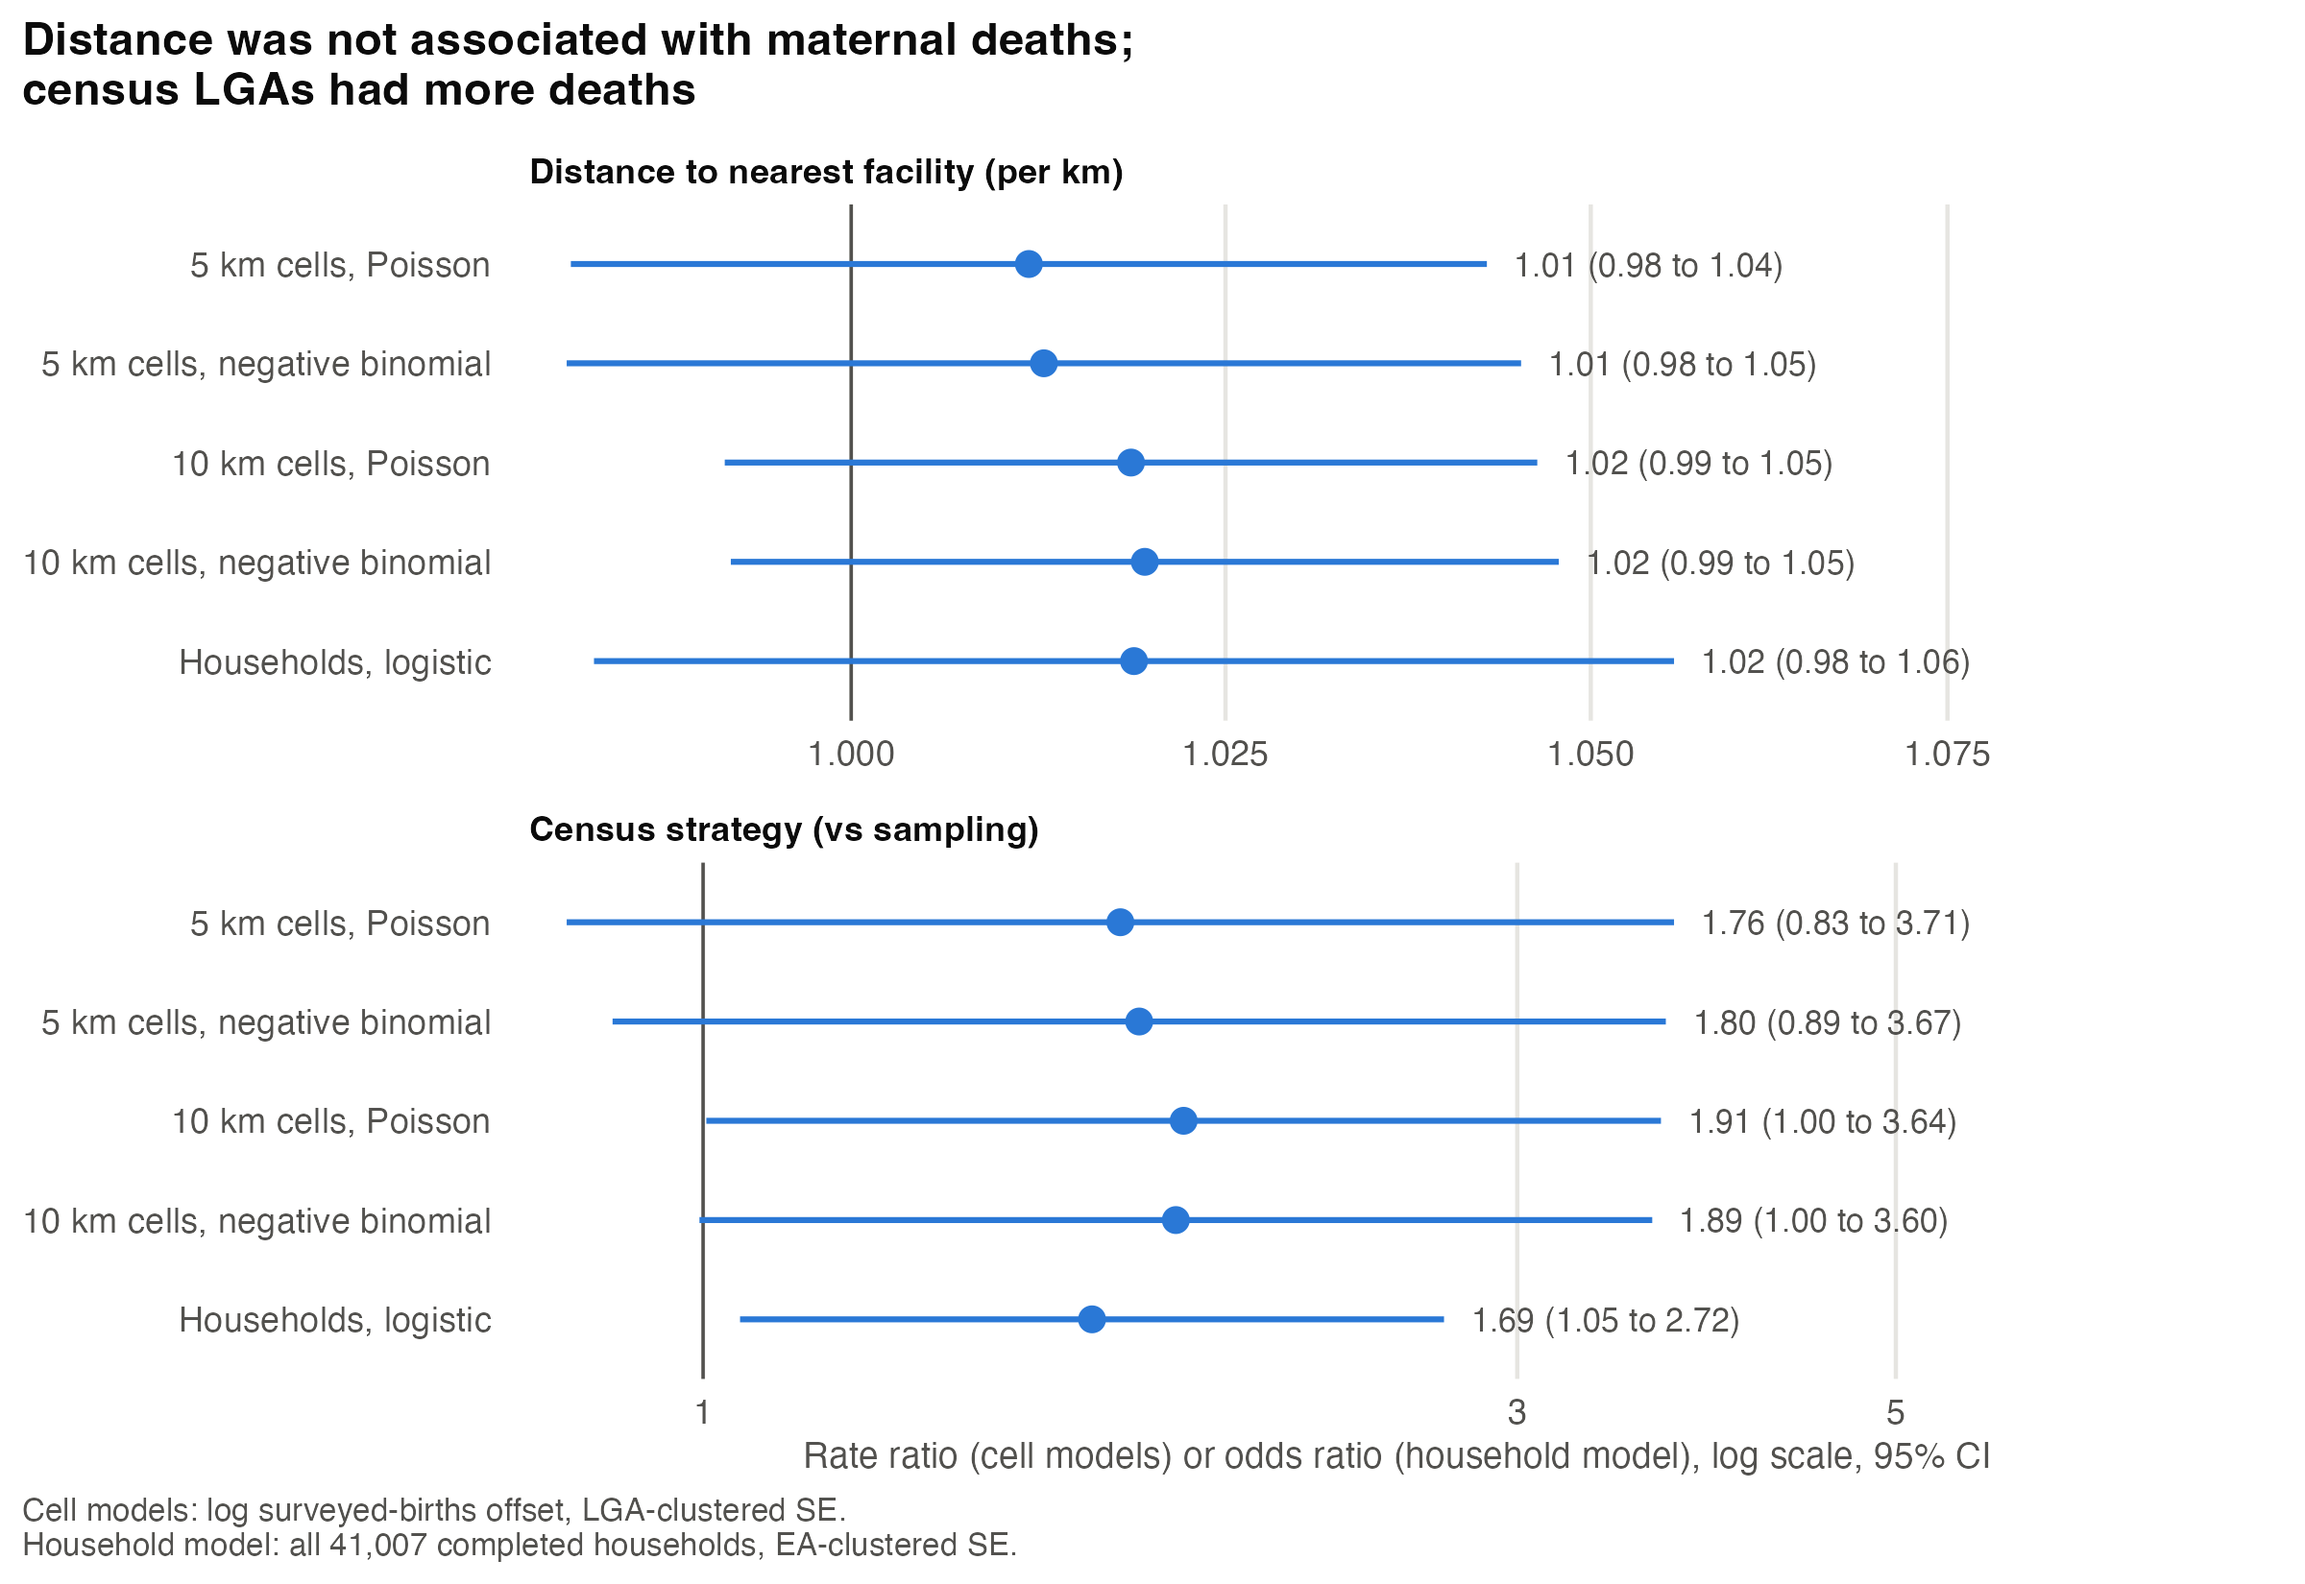
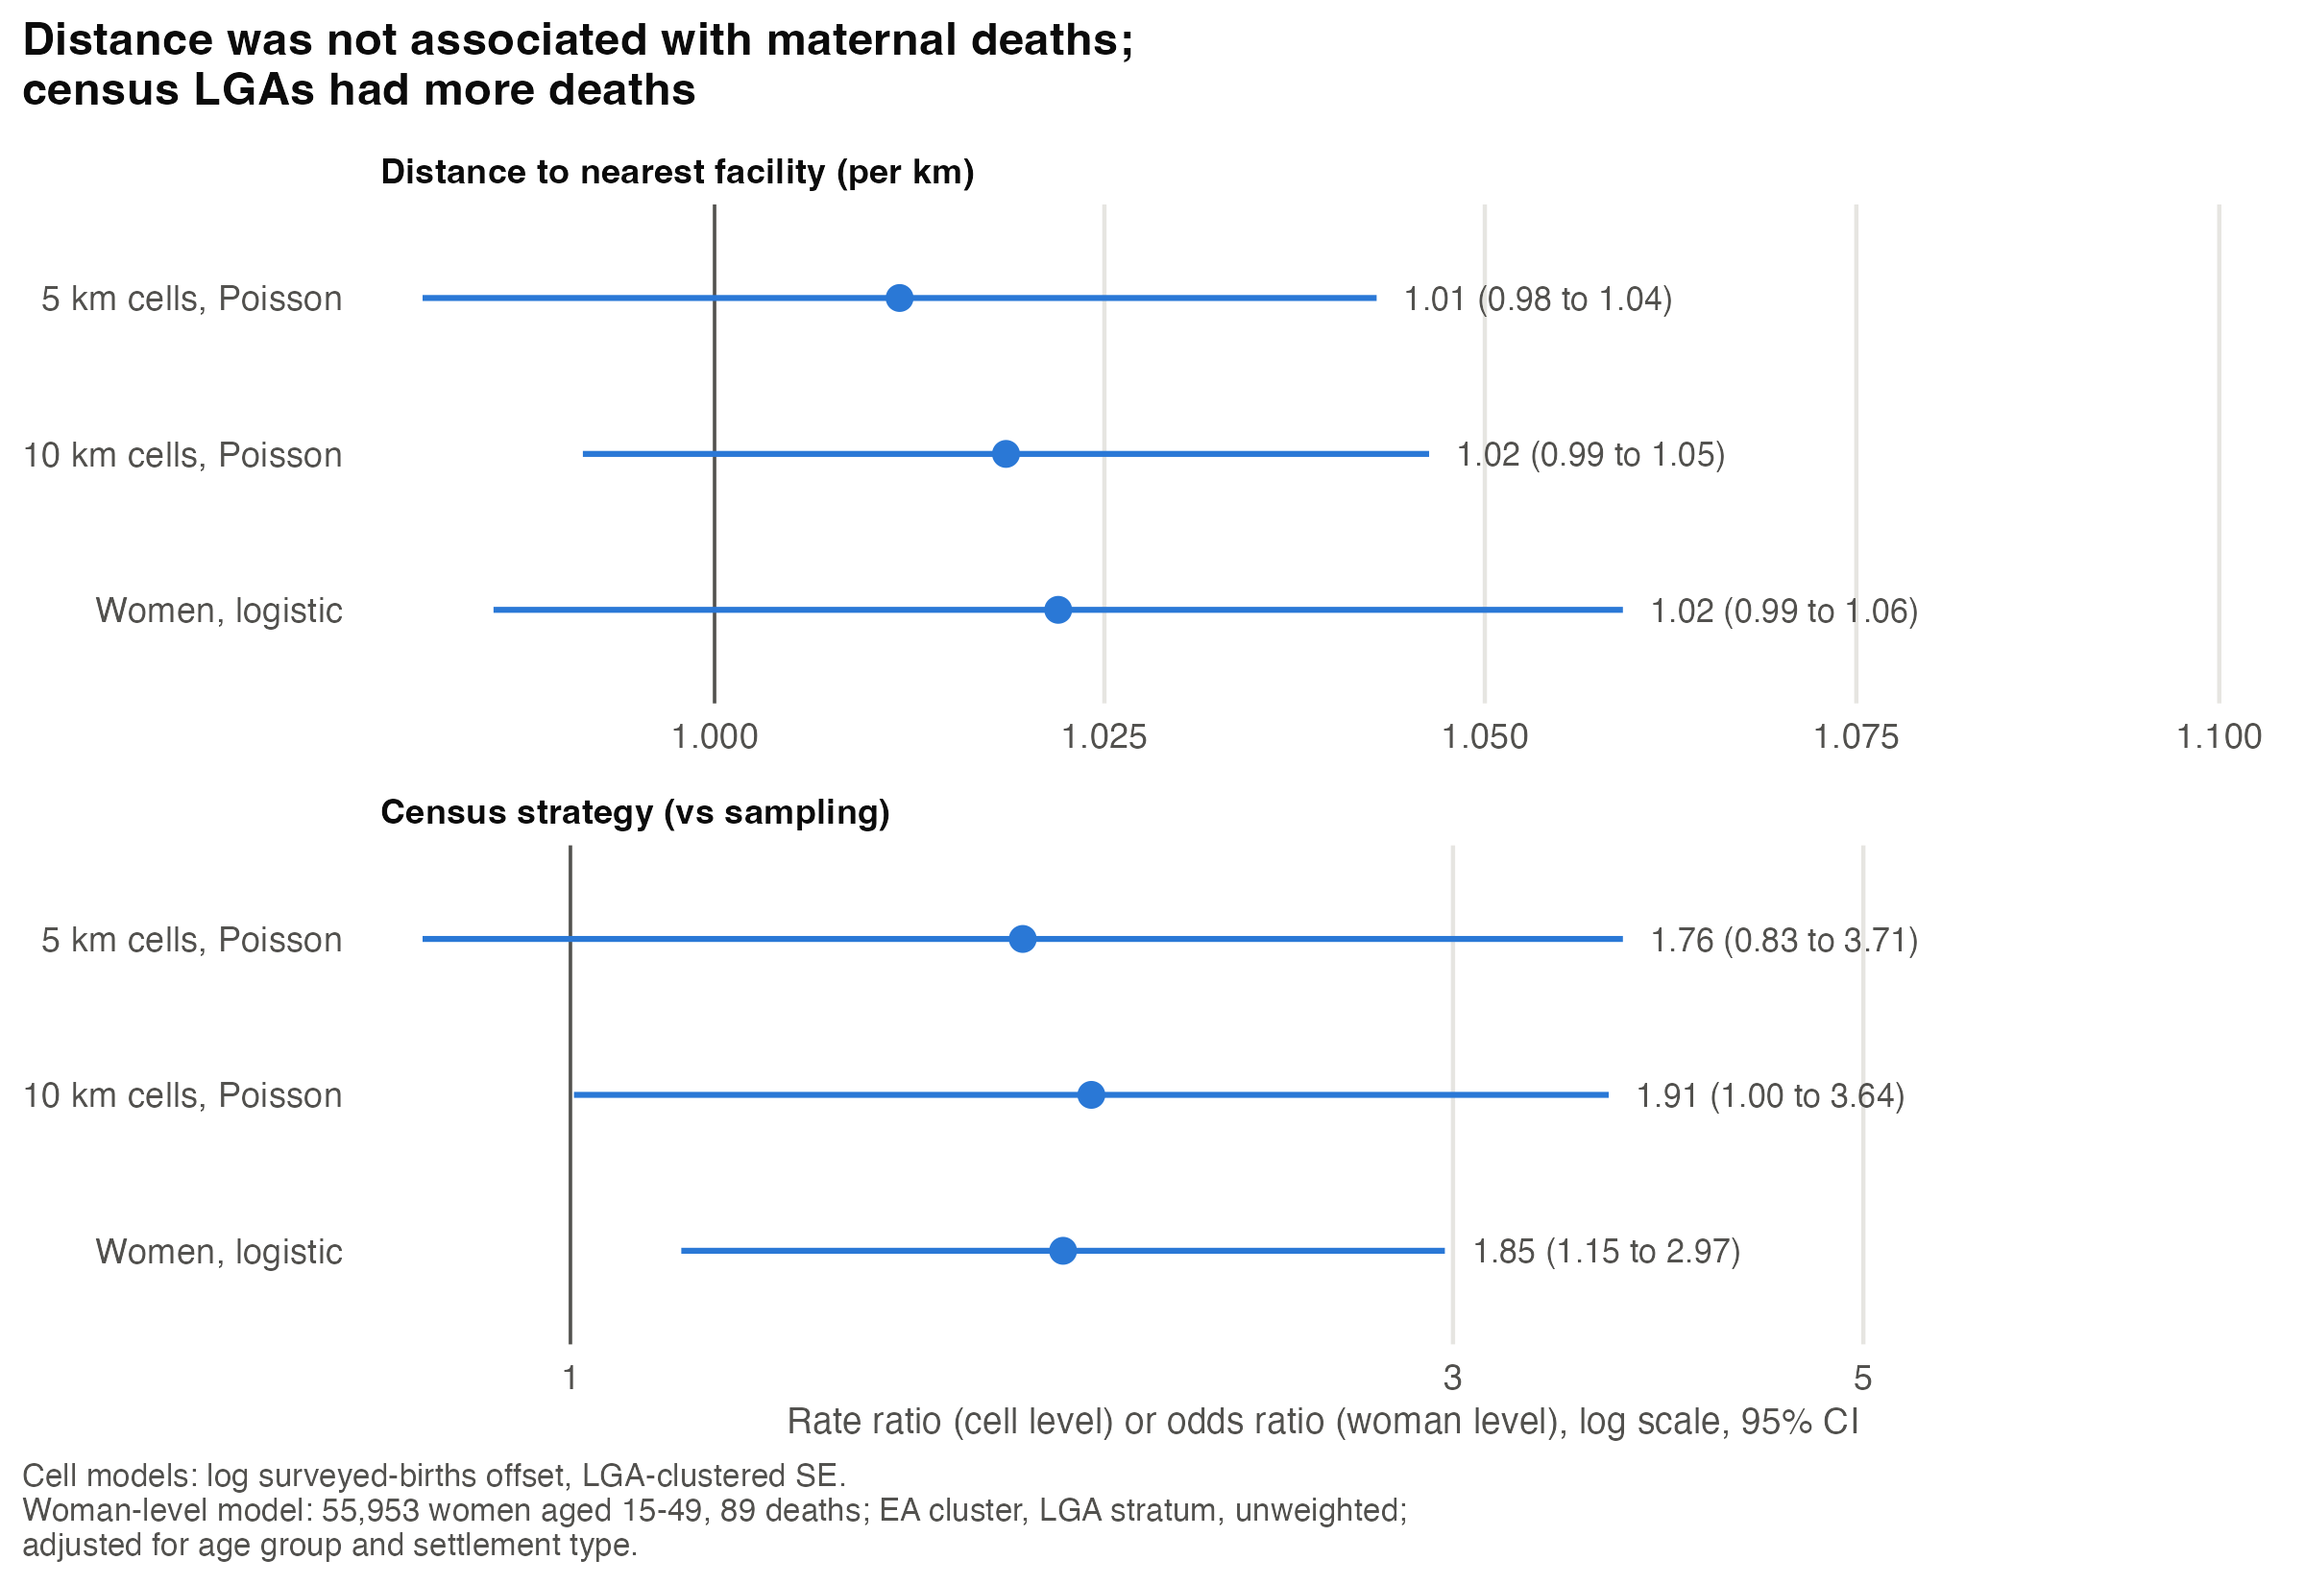
Two-level analysis: Poisson cell model, woman-level survey logistic, retrospective vs all-deaths hotspots
- Area level: single Poisson model with log surveyed-births offset (negative binomial removed;
  overdispersion and zero checks in cell_model_diagnostics.R)
- Individual level: survey-design logistic regression for women aged 15-49 (aisha_individual_level.R)
- Gi* hotspots and Moran's I for retrospective deaths alone and for all recorded deaths
- Figure 5 redrawn; README updated. No individual-level data or coordinates committed.

diff --git a/README.md b/README.md
@@ -8,8 +8,11 @@ Complete R script and outputs for the geospatial analysis of maternal mortality 
 - `outputs/` – all tables and figures generated from the n=93 analysis
 - `run_analysis_n116.R` – combined retrospective + prospective workflow (n=116: 93 retrospective + 23 prospective deaths); adds a 10 km hotspot comparison (§8b) not present in the n=93 script
 - `outputs_n116/` – all tables and figures generated from the n=116 analysis. Hotspots use Getis-Ord Gi* (own count included, via `include.self()`); earlier versions of the script computed Gi.
-- `aisha_option1_household_denominator.R` – household-denominator analysis (primary analysis in the revised manuscript). Deaths and surveyed births come from the same households in the KASSEP household listing, so cells without deaths are kept. Poisson and negative binomial models with a log surveyed-births offset (LGA-clustered SEs) and a household-level logistic model. Set `BIRTHS=live` to approximate live births (babies delivered minus stillbirths). Retrospective wave only (91 of 93 deaths; the 23 prospective deaths have no household denominator). Outputs: `outputs_n116/aisha_option1/`, `outputs_n116/aisha_option1_livebirths/`.
-- `aisha_figures.R` – figures for the household-denominator analysis (Figures 4 and 5).
+- `aisha_option1_household_denominator.R` – area level of the two-level analysis (primary analysis in the revised manuscript). Deaths and surveyed births come from the same households in the KASSEP household listing, so cells without deaths are kept. Poisson model with a log surveyed-births offset and LGA-clustered SEs, at 5 km (primary) and 10 km. Set `BIRTHS=live` to approximate live births (babies delivered minus stillbirths). Retrospective wave only (91 of 93 deaths; the 23 prospective deaths have no household denominator). Outputs: `outputs_n116/aisha_option1/`, `outputs_n116/aisha_option1_livebirths/`.
+- `cell_model_diagnostics.R` – overdispersion (Pearson chi-square/df, likelihood-ratio test against negative binomial with halved p) and zero-count checks for the area-level model.
+- `aisha_individual_level.R` – individual level: death or survival of each woman aged 15-49 in the household rosters, logistic regression with the survey design (EA cluster, LGA stratum, unweighted because EA sizes are unavailable). Outputs: `outputs_n116/aisha_individual/`.
+- `hotspot_retro_vs_combined.R`, `moran_retro_sweep.R` – Gi* hotspots and global Moran's I for the retrospective deaths alone and for all recorded deaths (outputs in `outputs_n116/aisha_hotspots/`). Setting `ALL=1` for `moran_retro_sweep.R` reproduces the all-deaths table in the manuscript.
+- `aisha_figures.R` – figures for the two-level analysis (Figures 4 and 5, Supplementary Figure S1).
 - `Rplot.pdf` – supplementary plots
 
 Individual-level GPS coordinates are never committed to this repository (see Data Sources below) — only grid-aggregated tables and maps.
